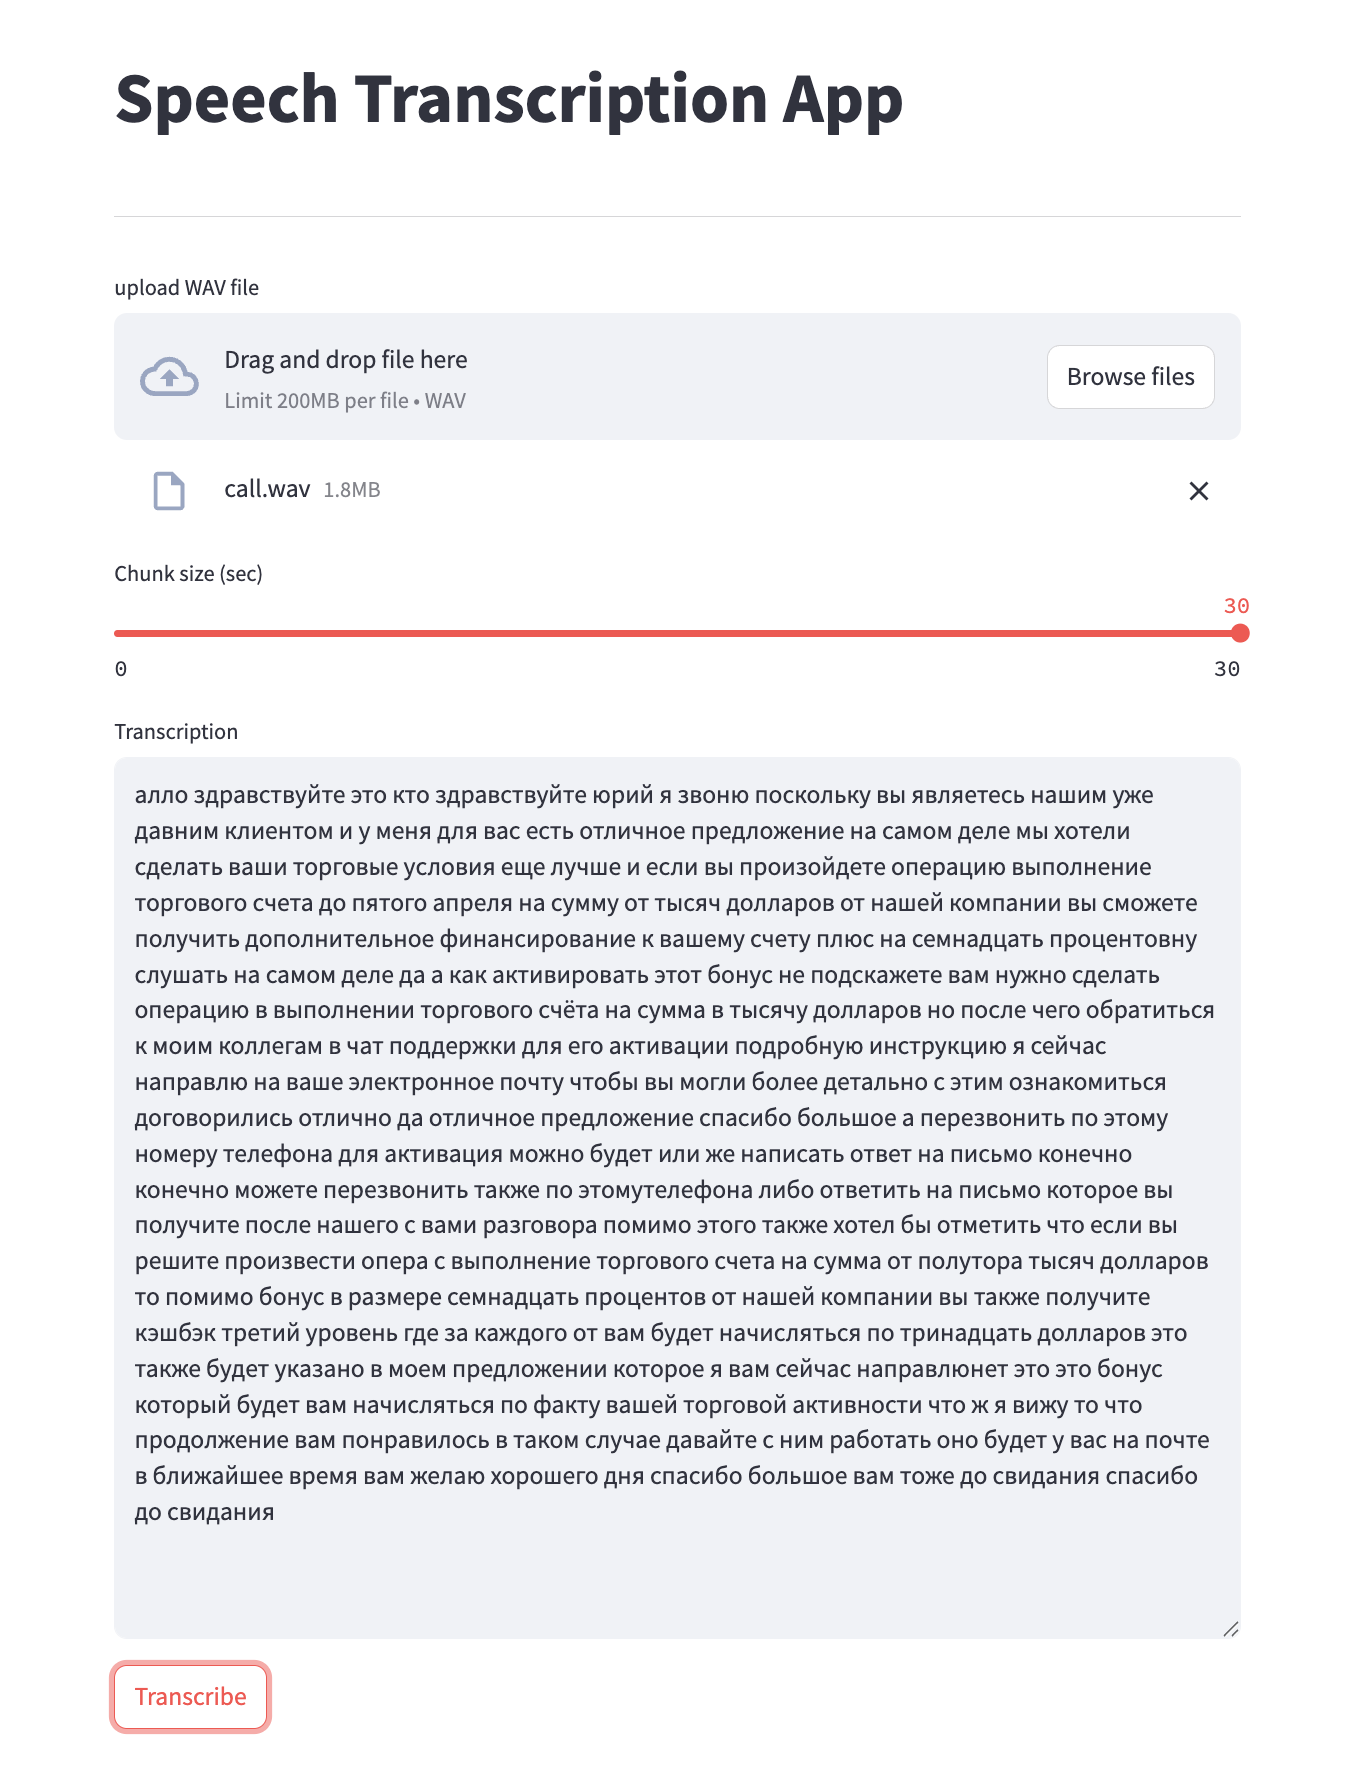
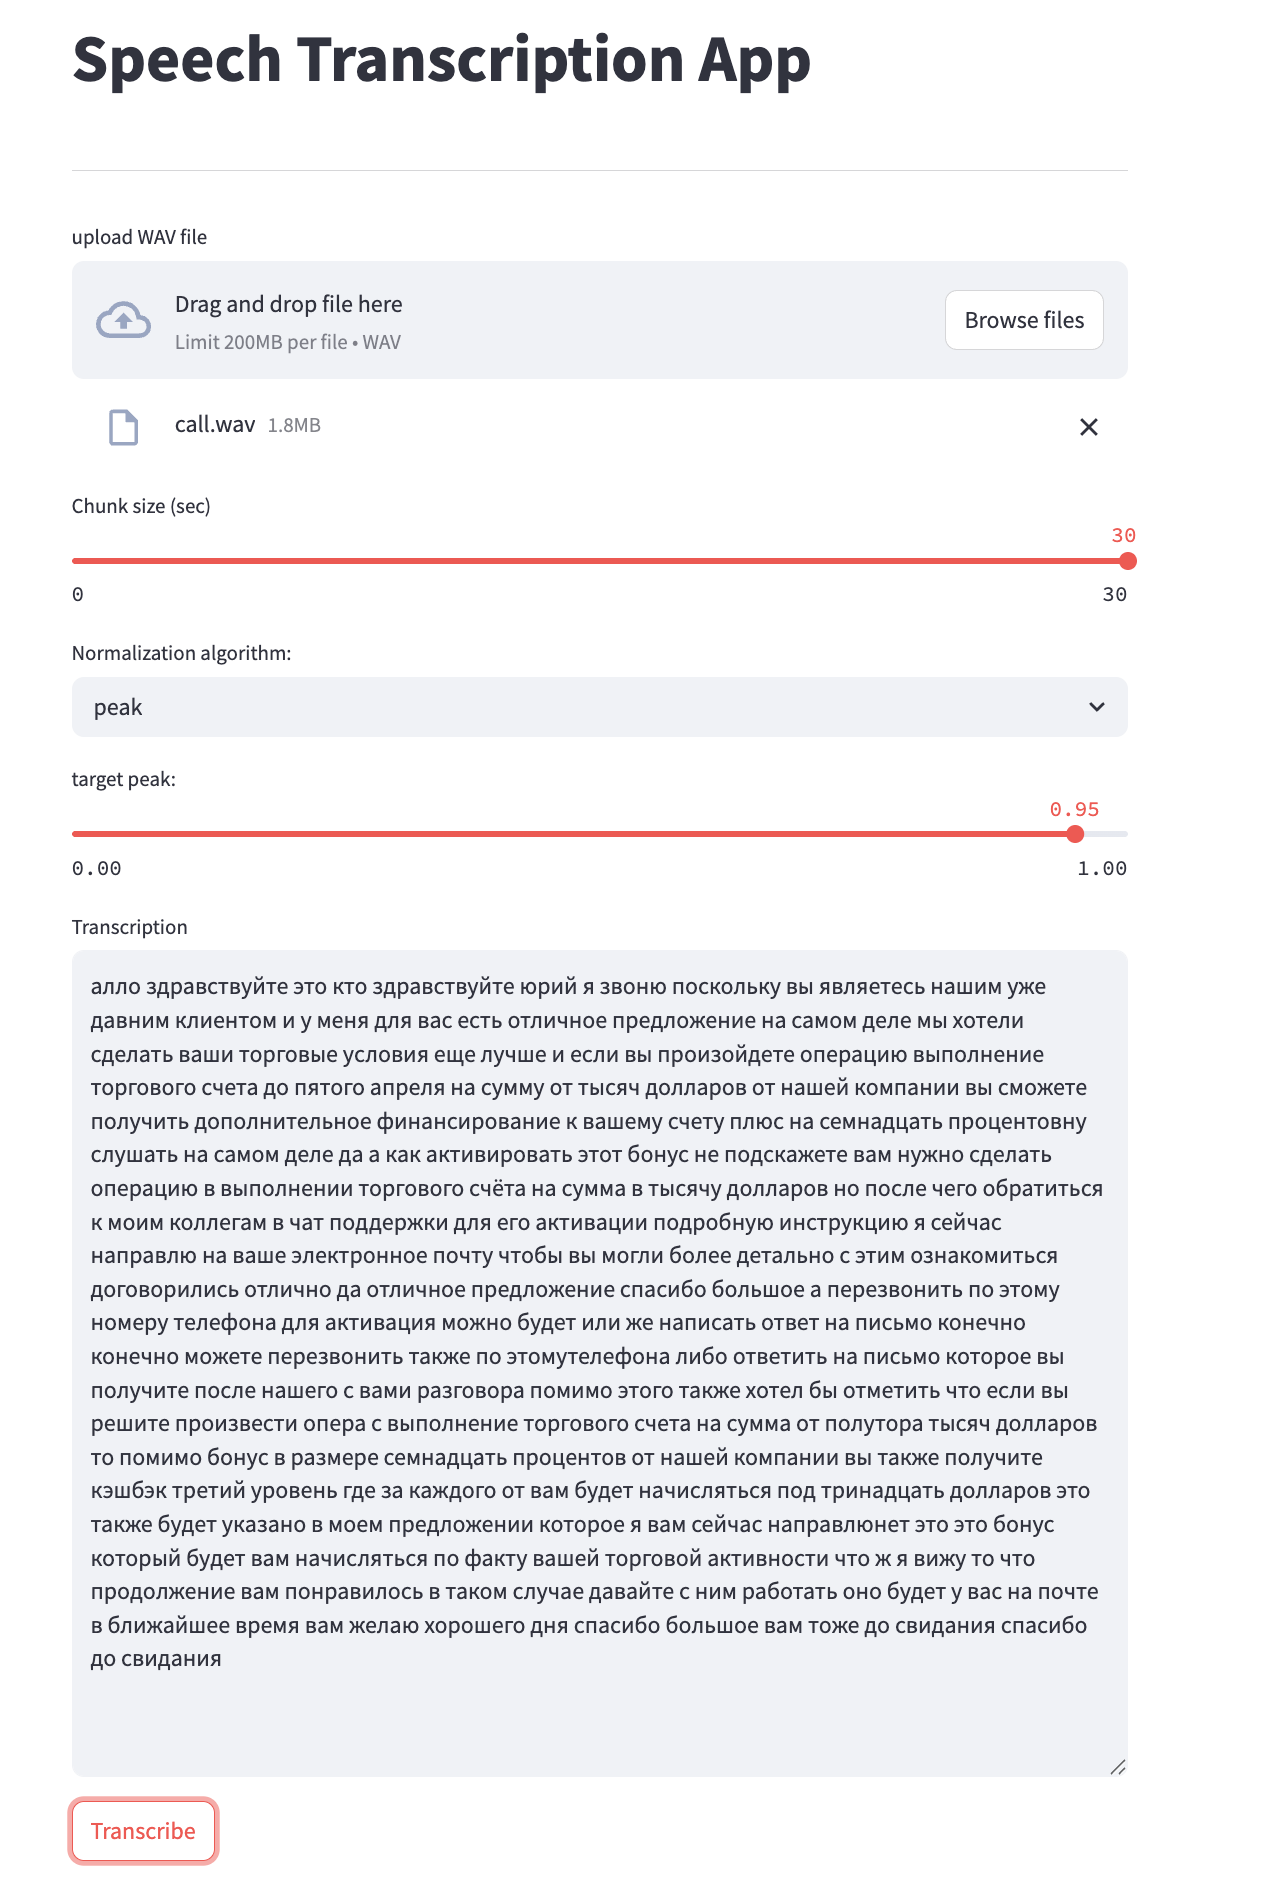
normalization

diff --git a/src/frontend.py b/src/frontend.py
@@ -1,34 +1,17 @@
-import io
-import os
-
-import librosa
-import requests
+import uuid
 import streamlit as st
 from dotenv import load_dotenv
+from frontend_utils import get_transcription
 
 load_dotenv()
 
 
-def get_transcription(chunk_size_sec: int, uploaded_file) -> None:
-    st.session_state.output_text = ""
-    st.session_state.button_clicked = False
-    model_sr = 16000
-    with st.spinner('Request in progress...'):
-        file_bytes = io.BytesIO(uploaded_file.read())
-        audio, original_sr = librosa.load(file_bytes, sr=None)
-        audio = librosa.resample(y=audio, orig_sr=original_sr, target_sr=model_sr)  # noqa: E501
-        chunk_length = chunk_size_sec * model_sr
-        for i, chunk in enumerate([audio[i:i + chunk_length] for i in range(0, len(audio), chunk_length)]):  # noqa: E501
-            resp = requests.post(
-                os.getenv("BACKEND_ENDPOINT"),
-                json={"chunk": chunk.tolist()},
-                headers={"Content-Type": "application/json"},
-            )
-            st.session_state.output_text += resp.json()["response"]
-
-
 def set_button_clicked():
     st.session_state.button_clicked = True
+
+
+if 'user_id' not in st.session_state:
+    st.session_state.user_id = str(uuid.uuid4())
 
 
 if "output_text" not in st.session_state:
@@ -42,9 +25,16 @@ if "button_clicked" not in st.session_state:
 st.title("Speech Transcription App")
 st.divider()
 
+target_dB = -20
+target_peak = 0.95
 
 uploaded_file = st.file_uploader("upload WAV file", type=["wav"])
 chunk_size_sec = st.slider("Chunk size (sec)", 0, 30, value=30, step=1)
+norm_algo = st.selectbox('Normalization algorithm:', ['peak', 'rms', 'lufs'])
+if norm_algo == "peak":
+    target_peak = st.slider('target peak:', 0.0, 1.0, value=0.95, step=0.01, format="%.2f")
+if norm_algo in ["rms", "lufs"]:
+    target_dB = st.slider("dB", -40, -10, value=-20, step=1)
 
 
 text_output = st.text_area(
@@ -57,5 +47,15 @@ text_output = st.text_area(
 st.button("Transcribe", on_click=set_button_clicked)
 
 if uploaded_file is not None and st.session_state.button_clicked:
-    get_transcription(chunk_size_sec, uploaded_file)
-    st.rerun()
+    st.session_state.output_text = ""
+    st.session_state.button_clicked = False
+    with st.spinner('Request in progress...'):
+        st.session_state.output_text = get_transcription(
+            uploaded_file=uploaded_file,
+            user_id=st.session_state.user_id,
+            chunk_size_sec=chunk_size_sec,
+            target_dB=target_dB,
+            norm_algo=norm_algo,
+            target_peak=target_peak,
+        )
+        st.rerun()

diff --git a/src/backend.py b/src/backend.py
@@ -1,15 +1,36 @@
 import os
 from typing import Any, Dict, List
-
 import requests
+import numpy as np
 from dotenv import load_dotenv
 from fastapi import FastAPI
 from pydantic import BaseModel
+from backend_utils import get_resampled_and_normalized_audio
+import logging
+
+
+logging.basicConfig(
+    level=logging.INFO,
+    format='%(asctime)s [%(levelname)s] %(message)s',
+    handlers=[logging.StreamHandler()],
+)
+
+logger = logging.getLogger(__name__)
 
 
 class Input(BaseModel):
+    user_id: str
     chunk: List[float]
+    sending: bool = False
+    target_dB: float = -10
+    norm_algo: str = "rms"
+    model_sr: int = 16000
+    chunk_size_sec: int = 30
+    target_peak: float = 0.95
+    original_sr: int = 16000
 
+
+USER_2_CHUNKS = {}
 
 load_dotenv()
 
@@ -18,13 +39,28 @@ app = FastAPI()
 
 @app.post("/get_answer/")
 async def inference(inp_obj: Input) -> Dict[str, Any]:
-    resp = requests.post(
-        os.getenv("LLM_ENDPOINT"),
-        json={"chunk": inp_obj.chunk},
-        headers={"Content-Type": "application/json"},
-    )
+    global USER_2_CHUNKS
+    response = ""
+    if inp_obj.sending:
+        USER_2_CHUNKS.setdefault(inp_obj.user_id, []).append(inp_obj.chunk)
+    else:
+        audio = np.hstack(USER_2_CHUNKS[inp_obj.user_id])
+        audio = get_resampled_and_normalized_audio(
+            audio, inp_obj.norm_algo, inp_obj.target_peak, inp_obj.target_dB, inp_obj.model_sr, inp_obj.original_sr,  # noqa: E501
+        )
+        response = ""
+        chunk_length = inp_obj.chunk_size_sec * inp_obj.model_sr
+        for i, chunk in enumerate([audio[i:i + chunk_length] for i in range(0, len(audio), chunk_length)]):  # noqa: E501
+            logger.info(f"chunk: {i}")
+            resp = requests.post(
+                os.getenv("LLM_ENDPOINT"),
+                json={"chunk": chunk.tolist()},
+                headers={"Content-Type": "application/json"},
+            )
+            response += resp.json()["response"]
+        USER_2_CHUNKS.pop(inp_obj.user_id)
+        logger.info(f"return response for {inp_obj.user_id} : {response}")
     return {
-        "chunk": inp_obj.chunk,
-        "response": resp.json()["response"],
-        "status": resp.status_code,
+        "response": response,
+        "status": 200,
     }

diff --git a/src/frontend_utils.py b/src/frontend_utils.py
@@ -1,0 +1,53 @@
+import os
+import requests
+import io
+import librosa
+import logging
+
+
+logging.basicConfig(
+    level=logging.INFO,
+    format='%(asctime)s [%(levelname)s] %(message)s',
+    handlers=[logging.StreamHandler()],
+)
+
+logger = logging.getLogger(__name__)
+
+
+def get_transcription(
+        *,
+        uploaded_file,
+        user_id: str,
+        chunk_size_sec: int,
+        target_dB: float,
+        norm_algo: str,
+        target_peak: float,
+) -> str:
+    model_sr = 16000
+    file_bytes = io.BytesIO(uploaded_file.read())
+    audio, original_sr = librosa.load(file_bytes, sr=None)
+    chunk_length = chunk_size_sec * original_sr
+    for i, chunk in enumerate([audio[i:i + chunk_length] for i in range(0, len(audio), chunk_length)]):  # noqa: E501
+        logger.info(f"chunk: {i}")
+        requests.post(
+            os.getenv("BACKEND_ENDPOINT"),
+            json={"user_id": user_id, "chunk": chunk.tolist(), "sending": True},
+            headers={"Content-Type": "application/json"},
+        )
+    logger.info(f"run backend processor for user: {user_id}")
+    resp = requests.post(
+        os.getenv("BACKEND_ENDPOINT"),
+        json={
+            "user_id": user_id,
+            "chunk": [],
+            "sending": False,
+            "target_dB": target_dB,
+            "norm_algo": norm_algo,
+            "model_sr": model_sr,
+            "original_sr": original_sr,
+            "chunk_size_sec": chunk_size_sec,
+            "target_peak": target_peak,
+        },
+        headers={"Content-Type": "application/json"},
+    )
+    return resp.json()["response"]

diff --git a/src/backend_utils.py b/src/backend_utils.py
@@ -1,0 +1,41 @@
+import numpy as np
+import pyloudnorm as pyln
+import librosa
+
+
+def get_peak_normalization(y: np.ndarray, target_peak: float = 0.95) -> np.array:
+    max_val = np.max(np.abs(y))
+    y_normalized = y * (target_peak / max_val)
+    return y_normalized
+
+
+def get_rms_normalization(y: np.ndarray, target_dB: float = -10) -> np.array:
+    rms = np.sqrt(np.mean(y ** 2))
+    target_rms = 10 ** (target_dB / 20)
+    y_normalized = y * (target_rms / rms)
+    return y_normalized
+
+
+def get_lufs_normalization(y: np.ndarray, sr: int = 16000, target_dB: float = -10) -> np.array:
+        meter = pyln.Meter(sr)
+        current_loudness = meter.integrated_loudness(y)
+        y_normalized = pyln.normalize.loudness(y, current_loudness, target_dB)
+        return y_normalized
+
+
+def get_resampled_and_normalized_audio(
+        audio: np.ndarray,
+        norm_algo: str,
+        target_peak: float,
+        target_dB: float,
+        model_sr: int,
+        original_sr: int,
+) -> np.ndarray:
+    audio = librosa.resample(y=audio, orig_sr=original_sr, target_sr=model_sr)
+    if norm_algo == "peak":
+        audio = get_peak_normalization(audio, target_peak=target_peak)
+    elif norm_algo == "rms":
+        audio = get_rms_normalization(audio, target_dB=target_dB)
+    elif norm_algo == "lufs":
+        audio = get_lufs_normalization(audio, sr=model_sr, target_dB=target_dB)
+    return audio

diff --git a/README.md b/README.md
@@ -32,12 +32,13 @@ http://localhost:8010/
 
 ### Frontend
 Приложение на streamlit. Простой вариант взаимодействия с сервисами. 
-Загружаем файл с компьютера. А потом чанками закидываем в модель, чтобы она делала
-транскрипцию. Размер чанка (в секундах) можно задать ползунком.
+Загружаем файл с компьютера. Чанки и дополнительные параметры для обработки сигнала закидываются в бэкенд.
+После обработки файла, результат возвращается в виде текста.
 
 ### Backend
 Прослойка между локальной LLM и фронтендом. Внутри может быть определена различная лоигка пре и постпроцессинга запросов.
-На текущий момент, внутри сервис на fastAPI, который принимает часть аудиофайла через API и передает его дальше в локальную модель.
+На текущий момент, внутри сервис на fastAPI, который принимает части сигнала с фронтенда. Делает нормализацию и ресемплинг.
+Затем сигнал также чанками передаются в LLM сервис.
 Запуск происходит через uvicorn.
 
 ### LLM service
@@ -137,9 +138,11 @@ make full_restart - вызов full_stop, а затем full_start
 
 # Развитие
 1. Добавить базу данных:
-   * логировать транскрипцию 
+   * логировать транскрипцию.
    * не запускать процесс на те файлы, что уже были преобразованы.
-2. Запуск сервиса на GPU для ускорения процесса
-3. Постпроцессинг исходной информации, так как сейчас это сырой текст без знаком применения даже
+2. Запуск сервиса на GPU для ускорения процесса.
+3. Постпроцессинг исходной информации, так как сейчас это сырой текст без знаков применения.
 4. Попробовать другие модели. Я попробовал 4-5 моделей. mitchelldehaven/whisper-medium-ru выдавала лучший результат в плане полноты, скорости, качества текста.
-5. Добавить тесты для проверки работоспособности сервисов
+5. Добавить тесты для проверки работоспособности сервисов.
+6. Асинхронная пересылка.
+7. Кэш для пользователей на основе, например, Redis.
